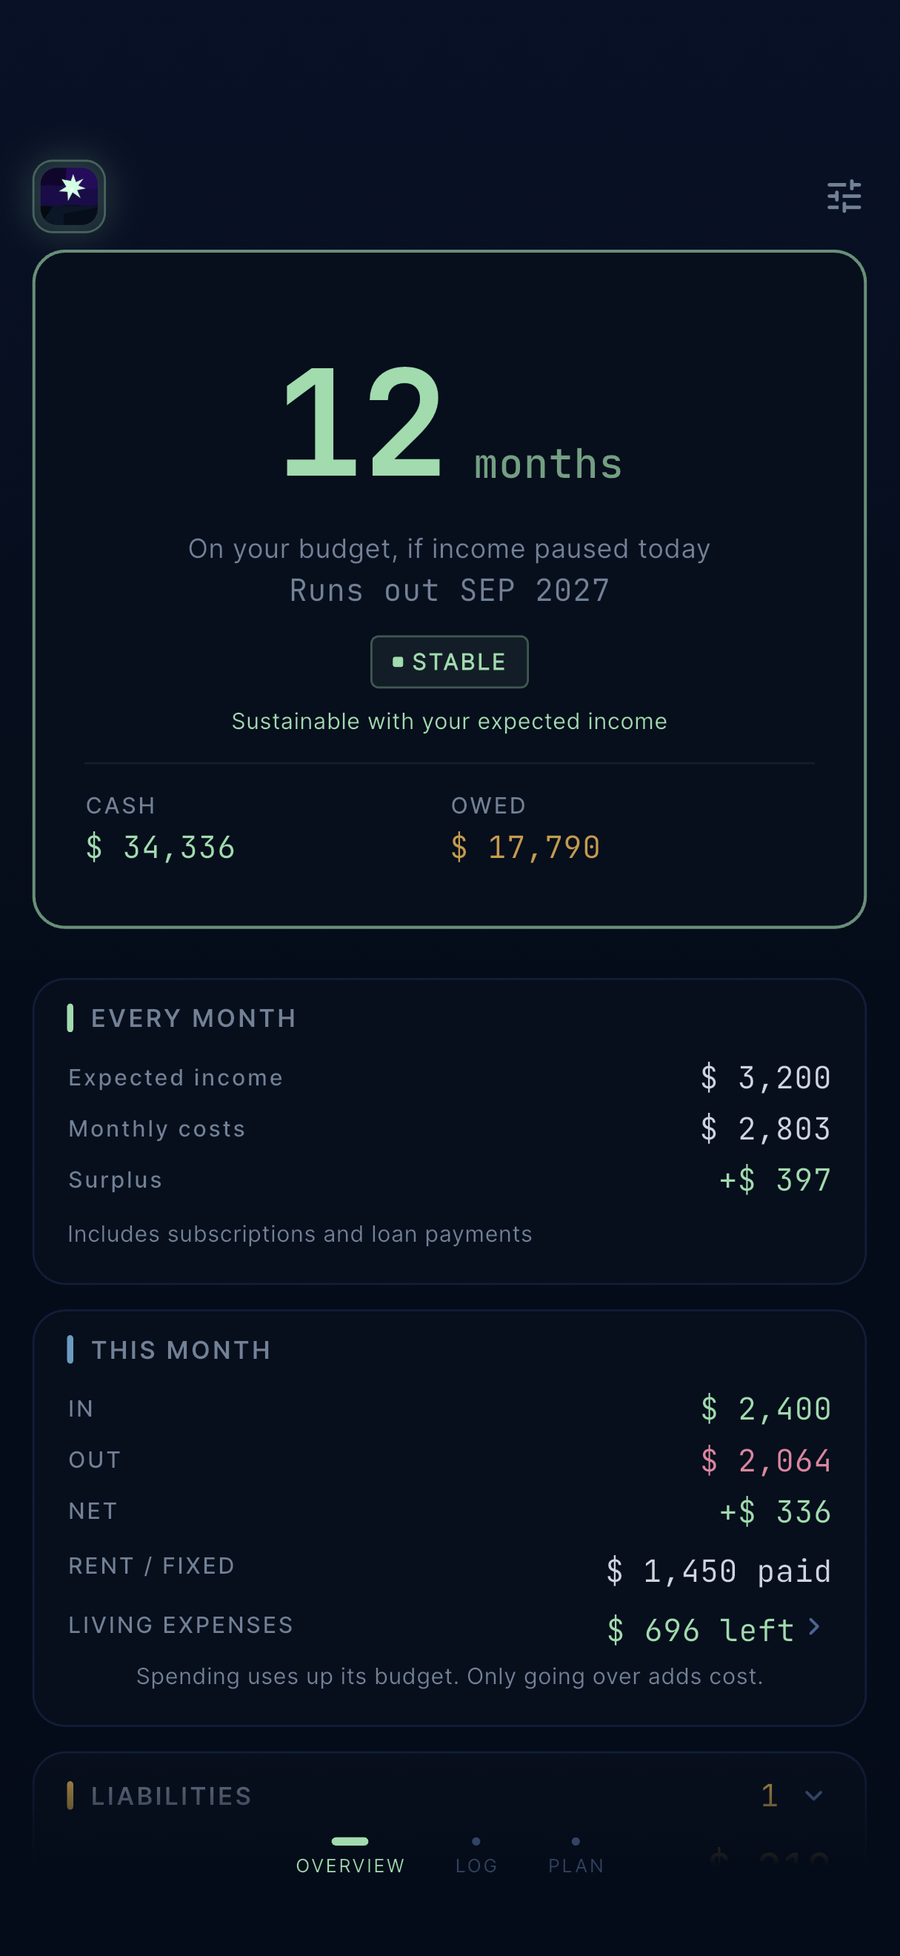
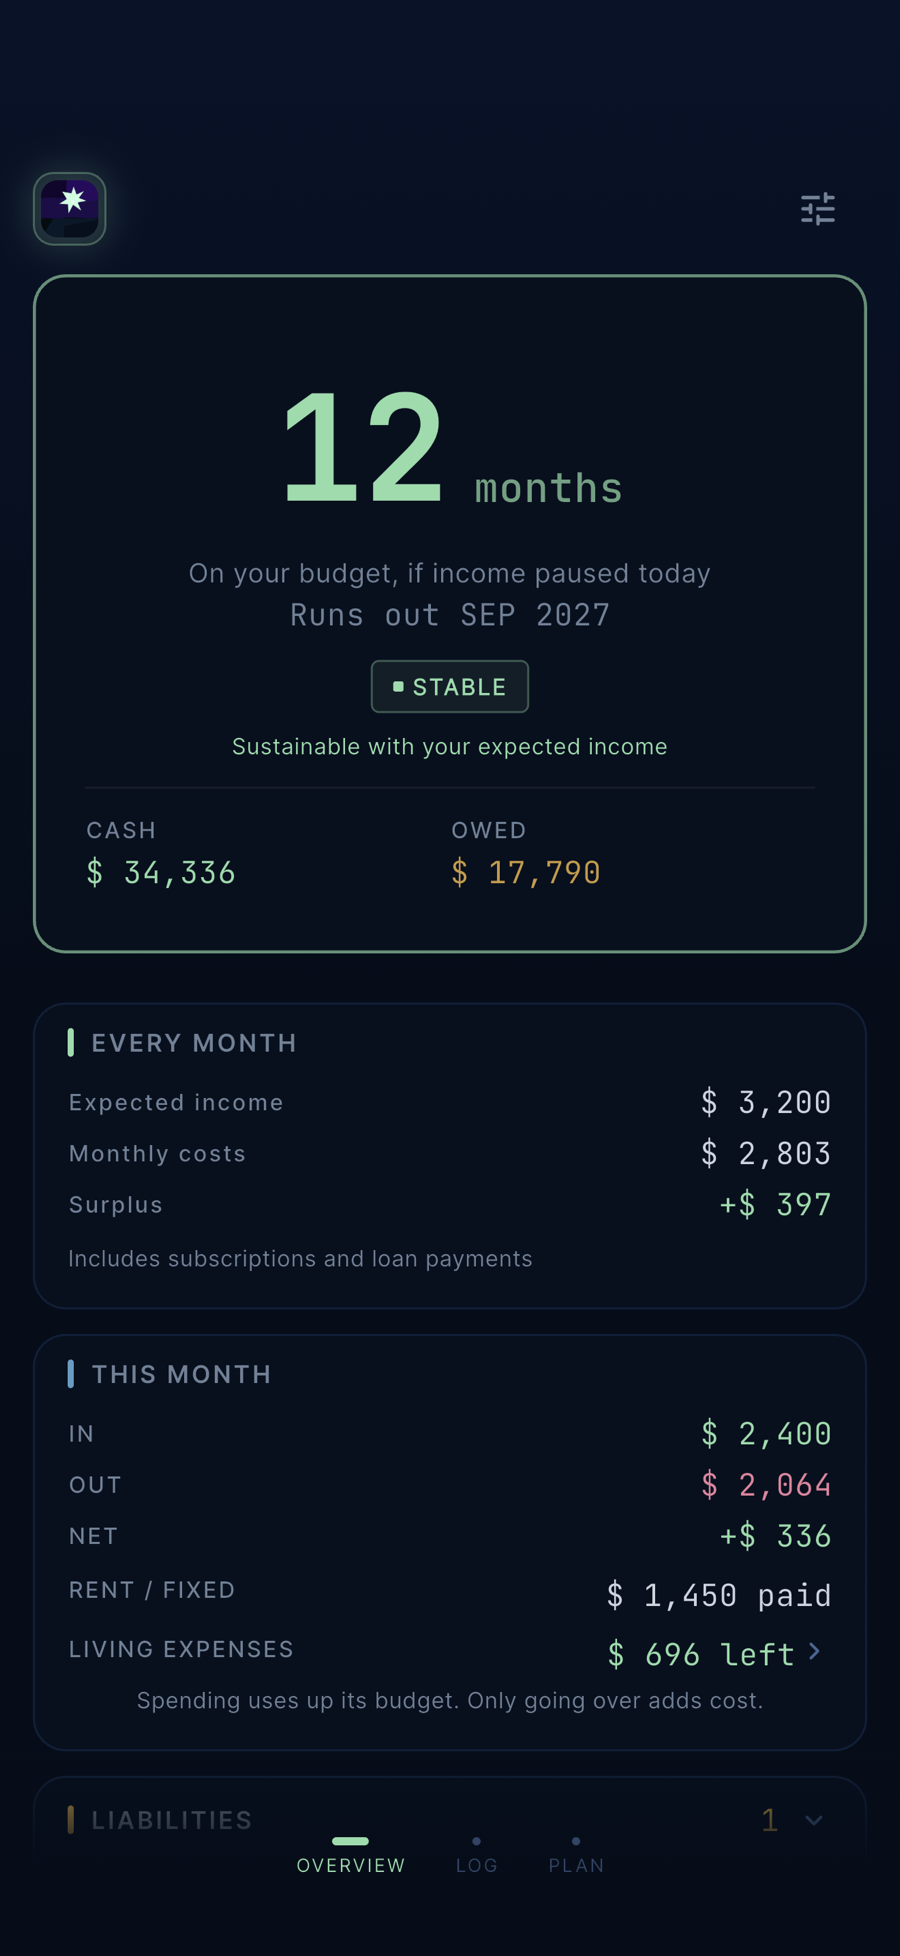
feat(store): capture the bare app screens, captions live in screenshot.html
The screenshot test drew its own caption band, a second definition of the
store captions. It now captures only the four bare screens, at 6.9-inch,
and they replace site/assets/device at 900x1956. The 05-commitments and
06-log-full frames had no users and are gone.

diff --git a/app/integration_test/screenshots_test.dart b/app/integration_test/screenshots_test.dart
@@ -1,6 +1,6 @@
-// Captures the App Store and Devpost screenshots from the real app, running on
-// an in-memory database seeded with the demo figures below. Each frame carries
-// a caption band above the app, the way the store listing presents it.
+// Captures the bare app screens for the App Store slides, from the real app
+// running on an in-memory database seeded with the demo figures below. The
+// captions and the frame around each screen live in assets/store/screenshot.html.
 //
 //   SCREENSHOT_DIR=<dir> flutter drive \
 //     --driver=test_driver/screenshots.dart \
@@ -12,15 +12,11 @@ import 'package:data/data.dart'
         DriftLoanRepository,
         DriftSubscriptionRepository,
         DriftTransactionRepository;
-import 'package:design_system/design_system.dart';
 import 'package:domain/domain.dart';
 import 'package:drift/native.dart';
-import 'package:flutter/foundation.dart';
 import 'package:flutter/material.dart';
 import 'package:flutter_test/flutter_test.dart';
 import 'package:integration_test/integration_test.dart';
-import 'package:presentation/features/loans/liabilities_panel.dart';
-import 'package:presentation/features/subscriptions/subscriptions_panel.dart';
 import 'package:presentation/router/page_indicator.dart';
 import 'package:shared_preferences/shared_preferences.dart';
 
@@ -57,103 +53,46 @@ void main() {
     final database = AppDatabase.forTesting(NativeDatabase.memory());
     await _seed(database);
 
-    final caption = ValueNotifier<_Caption?>(null);
     await tester.pumpWidget(
-      _Captioned(
-        caption: caption,
+      // Reduce-motion for the whole captured tree. The dashboard's one looping
+      // animation sits still under it, so two captures of a frame match.
+      MediaQuery(
+        data: MediaQueryData.fromView(
+          tester.view,
+        ).copyWith(disableAnimations: true),
         child: buildTestApp(database: database, now: _capturedAt),
       ),
     );
     // The boot sequence runs on real timers, then routes to the dashboard.
     await pumpRealTime(tester, seconds: 7);
 
-    Future<void> capture(String name, _Caption text) async {
-      caption.value = text;
+    Future<void> capture(String name) async {
       await pumpRealTime(tester, seconds: 1);
       await binding.takeScreenshot(name);
     }
 
-    // No caption band, so the app fills the frame at its own size. This is the
-    // frame that has to be a plain screenshot, not a store slide.
-    Future<void> captureBare(String name) async {
-      caption.value = null;
-      await pumpRealTime(tester, seconds: 1);
-      await binding.takeScreenshot(name);
-    }
-
-    await capture(
-      '01-runway',
-      const _Caption(
-        'Stop guessing how long your money lasts',
-        'No account. No bank connection.',
-      ),
-    );
-
-    // Loans and subscriptions sit next to each other below the fold, so one
-    // frame carries both.
-    await tester.scrollUntilVisible(
-      find.byType(SubscriptionsPanel),
-      400,
-      scrollable: find.byType(Scrollable).first,
-    );
-    await pumpRealTime(tester, seconds: 1);
-    // Both cards open, so the loan and the subscriptions are named rather than
-    // just counted. Subscriptions first: opening the loan above them pushes
-    // them off the frame, where a tap has nothing to hit.
-    await _expand(tester, find.byType(SubscriptionsPanel));
-    await _expand(tester, find.byType(LiabilitiesPanel));
-    await tester.scrollUntilVisible(
-      find.byType(SubscriptionsPanel),
-      200,
-      scrollable: find.byType(Scrollable).first,
-    );
-    // Come back up so the loan keeps its own heading in the frame.
-    await tester.ensureVisible(find.byType(LiabilitiesPanel));
-    await pumpRealTime(tester, seconds: 1);
-    await capture(
-      '05-commitments',
-      const _Caption(
-        'What is already decided',
-        'Loan payments and subscriptions, counted every month.',
-      ),
-    );
+    await capture('01-runway');
 
     await tester.scrollUntilVisible(
       find.text('LIVING EXPENSES'),
-      -400,
+      400,
       scrollable: find.byType(Scrollable).first,
     );
     await pumpRealTime(tester, seconds: 1);
     await tester.tap(find.text('LIVING EXPENSES'));
     await pumpRealTime(tester, seconds: 2);
-    await capture(
-      '02-living',
-      const _Caption(
-        'Know what you can spend today',
-        'What is left this month, and what that is per day.',
-      ),
-    );
+    await capture('02-living');
     // Dismiss the sheet by tapping outside it.
     await _dismissSheet(tester);
     await pumpRealTime(tester, seconds: 2);
 
     await _tapNav(tester, 'LOG');
-    // With the sheet open. The caption promises speed, and the presets are the
-    // thing that delivers it — a list of past entries shows the result rather
-    // than the mechanism.
+    // With the sheet open: the presets are what make logging fast.
     await tester.tap(find.byKey(const Key('add-fab')));
     await pumpRealTime(tester, seconds: 2);
-    await capture(
-      '03-log',
-      const _Caption(
-        'Log a spend in seconds',
-        'Pick the occasion, type the amount.',
-      ),
-    );
+    await capture('03-log');
     await _dismissSheet(tester);
     await pumpRealTime(tester, seconds: 2);
-    // The log itself, both sides of the month in one list.
-    await captureBare('06-log-full');
 
     await _tapNav(tester, 'PLAN');
     await tester.enterText(
@@ -166,28 +105,8 @@ void main() {
     await pumpRealTime(tester, seconds: 1);
     await tester.tap(find.text('RUN SIMULATION'));
     await pumpRealTime(tester, seconds: 2);
-    await capture(
-      '04-plan',
-      const _Caption(
-        'Model a change before you make it',
-        'See how many months a lower cost buys.',
-      ),
-    );
+    await capture('04-plan');
   });
-}
-
-/// Opens a panel that starts collapsed, so the frame names what is inside it
-/// rather than only counting it.
-Future<void> _expand(WidgetTester tester, Finder panel) async {
-  // Only the header toggles the card, so aim at its chevron. Tapping the card
-  // itself lands on the summary and silently does nothing.
-  await tester.tap(
-    find.descendant(
-      of: panel,
-      matching: find.byIcon(Icons.keyboard_arrow_down_rounded),
-    ),
-  );
-  await pumpRealTime(tester, seconds: 1);
 }
 
 Future<void> _dismissSheet(WidgetTester tester) async {
@@ -268,7 +187,7 @@ Future<void> _seed(AppDatabase database) async {
       note: 'Phone and utilities',
     ),
     _entry('t9', day(9), TransactionType.expense, 35, note: 'Coffee'),
-    // A fortnight of ordinary spending, so the log frame reads like a log
+    // A fortnight of ordinary spending, so the figures read like a log
     // somebody keeps rather than one they opened twice. Living stays well
     // inside its budget, which is the state the budget rows are there to show.
     _entry('t10', day(10), TransactionType.expense, 26, note: 'Dinner out'),
@@ -338,99 +257,3 @@ Transaction _entry(
   createdAt: date,
   updatedAt: date,
 );
-
-class _Caption {
-  final String headline;
-  final String detail;
-  const _Caption(this.headline, this.detail);
-}
-
-/// The app with a caption band above it, as the store listing presents it.
-///
-/// The app keeps the window's own size and is scaled down to fit what is left
-/// below the caption. Handing it a shorter box instead clips it, because
-/// MaterialApp measures itself against the window, not against its parent.
-class _Captioned extends StatelessWidget {
-  final ValueListenable<_Caption?> caption;
-  final Widget child;
-  const _Captioned({required this.caption, required this.child});
-
-  @override
-  Widget build(BuildContext context) {
-    final view = View.of(context);
-    final screen = view.physicalSize / view.devicePixelRatio;
-    // Reduce-motion for the whole captured tree. The dashboard's one looping
-    // animation sits still under it, and a pulse caught at a different phase
-    // is a different frame — the other half of why two captures never matched.
-    return MediaQuery(
-      data: MediaQueryData.fromView(view).copyWith(disableAnimations: true),
-      child: Directionality(
-        textDirection: TextDirection.ltr,
-        child: ColoredBox(
-          color: AppColors.background,
-          child: Column(
-            children: [
-              ValueListenableBuilder<_Caption?>(
-                valueListenable: caption,
-                builder: (context, value, _) {
-                  if (value == null) return const SizedBox.shrink();
-                  // The ~150px empty band in three of the four frames sat
-                  // *between* the caption and the app, so it comes off the
-                  // bottom of this padding and out of the FittedBox's
-                  // alignment below — not off the top margin, which the frame
-                  // still needs to breathe (#110).
-                  return Padding(
-                    padding: const EdgeInsets.fromLTRB(
-                      AppSpacing.xl,
-                      AppSpacing.xl,
-                      AppSpacing.xl,
-                      AppSpacing.md,
-                    ),
-                    child: Column(
-                      children: [
-                        Text(
-                          value.headline,
-                          textAlign: TextAlign.center,
-                          // Not pure white. The app's own palette tops out at
-                          // textPrimary, and a white caption at title weight
-                          // outranked the mint runway number in its own
-                          // screenshot — the number is the product's argument,
-                          // so it has to own the highest contrast (#110).
-                          style: AppTextStyles.title.copyWith(
-                            color: AppColors.textPrimary,
-                            height: 1.2,
-                          ),
-                        ),
-                        const SizedBox(height: AppSpacing.xs),
-                        Text(
-                          value.detail,
-                          textAlign: TextAlign.center,
-                          style: AppTextStyles.bodySmall.copyWith(
-                            color: AppColors.textSecondary,
-                          ),
-                        ),
-                      ],
-                    ),
-                  );
-                },
-              ),
-              Expanded(
-                child: FittedBox(
-                  fit: BoxFit.contain,
-                  // Any slack left by scaling goes below the app, not between
-                  // the caption and it, where it read as a gap in the layout.
-                  alignment: Alignment.topCenter,
-                  child: SizedBox(
-                    width: screen.width,
-                    height: screen.height,
-                    child: child,
-                  ),
-                ),
-              ),
-            ],
-          ),
-        ),
-      ),
-    );
-  }
-}

diff --git a/site/index.html b/site/index.html
@@ -169,8 +169,8 @@
                   class="story-screen is-active"
                   data-index="01"
                   src="assets/device/02-living.png"
-                  width="720"
-                  height="1564"
+                  width="900"
+                  height="1956"
                   alt="Living budget screen showing what is left this month as an amount per day."
                   loading="lazy"
                   decoding="async"
@@ -179,8 +179,8 @@
                   class="story-screen"
                   data-index="02"
                   src="assets/device/03-log.png"
-                  width="720"
-                  height="1564"
+                  width="900"
+                  height="1956"
                   alt="Quick log sheet for spending and income."
                   loading="lazy"
                   decoding="async"
@@ -189,8 +189,8 @@
                   class="story-screen"
                   data-index="03"
                   src="assets/device/04-plan.png"
-                  width="720"
-                  height="1564"
+                  width="900"
+                  height="1956"
                   alt="Scenario plan comparing a projected runway with the current runway."
                   loading="lazy"
                   decoding="async"

diff --git a/site/assets/landing.css b/site/assets/landing.css
@@ -1120,7 +1120,7 @@ body.landing .wrap {
   position: relative;
   z-index: 2;
   width: min(46%, 21rem);
-  aspect-ratio: 720/1564;
+  aspect-ratio: 900/1956;
   filter: drop-shadow(0 2.2rem 2.5rem rgba(0, 0, 0, 0.42));
   transform: rotate(-2deg);
 }
